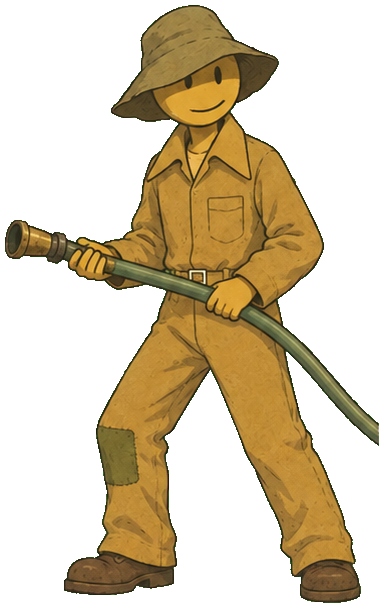
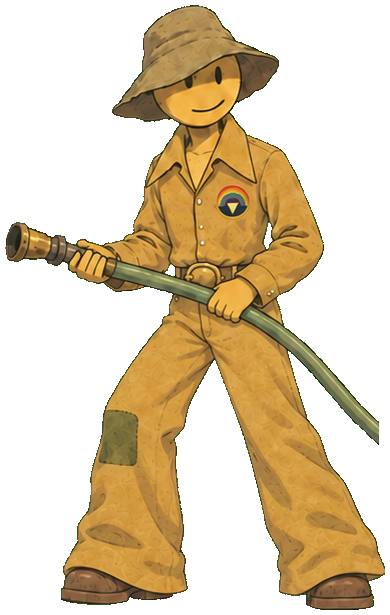
feat(art): painted gardener, and the final character sheets cut
The gardener follows PR's pattern: `man` stays the anchor, `manP` (the built
geometry) is hidden, a camera-facing quad carries the painted view. He is
simpler than Rosie because manRot only ever settles to 0 or PI — he faces left
or right, never toward camera — so the view is chosen by what he is DOING
rather than by angle: kneeling while cowering, walking above a speed threshold,
standing otherwise, mirrored when he turns.

Also re-cut against the user's final designs, which replaced every earlier
sheet: Rosie, the gardener, the grey hose and the dragon.

Evidence: production/qa/evidence/pr2-moving.png
Design: design/art/painted-rosie.md

Claude-Session: https://claude.ai/code/session_01JR8fsw3Uh5kViP8MJWMfnz

Changed region(s): [[0.0, 0.0, 1.0, 1.0]]

diff --git a/src/index.html b/src/index.html
@@ -2710,6 +2710,45 @@ function artSync(){skyDome.position.set(cam.position.x,0,cam.position.z);stars.p
 
 /* per-frame sync of the 3D scene with the game state */
 const C=h=>new THREE.Color(h),SKY={top:[C('#3f4a54'),C('#2c3a38')],mid:[C('#8b958f'),C('#6e7f72')],bot:[C('#cfc0a4'),C('#b9b893')]},FOG_A=C('#9ea396'),FOG_B=C('#8d978a'),FOG_P=C('#6a5f74'),SKY_BH=C('#b06a86'),HEMI_S=[C('#aab4b2'),C('#93a89c'),C('#a894b4')],HEMI_G=[C('#242a1e'),C('#20281f'),C('#2a3330')];
+/* ---- PAINTED GARDENER ---------------------------------------------------------------------
+   Same approach as PR (painted Rosie): `man` stays the anchor every system reads, `manP` (the
+   built geometry) is hidden, and a camera-facing quad shows the painted view. He is simpler
+   than Rosie because manRot only ever settles to 0 or PI -- he faces left or right, never
+   toward camera -- so the view is chosen by what he is DOING, not by angle. */
+const PM={on:true,ready:false,tex:{},h:188,lx:0,walk:0,bob:0};
+(function(){
+ const L=new THREE.TextureLoader(),V=['side','walk','kneel','back','q34'];let got=0;
+ V.forEach(v=>L.load('art/man_'+v+'.png',tx=>{
+   tx.encoding=THREE.sRGBEncoding;tx.minFilter=THREE.LinearFilter;tx.magFilter=THREE.LinearFilter;
+   tx.generateMipmaps=false;tx.anisotropy=4;PM.tex[v]=tx;if(++got===V.length)PM.ready=true;},
+   undefined,()=>{PM.on=false;}));
+ PM.mat=new THREE.MeshBasicMaterial({transparent:true,alphaTest:.34,depthWrite:true,toneMapped:false,side:THREE.DoubleSide});
+ PM.spr=new THREE.Mesh(new THREE.PlaneGeometry(1,1),PM.mat);PM.spr.visible=false;PM.spr.renderOrder=2;scene.add(PM.spr);
+ PM.sh=new THREE.Mesh(new THREE.CircleGeometry(1,20),new THREE.MeshBasicMaterial({color:0x2a2118,transparent:true,opacity:.24,depthWrite:false}));
+ PM.sh.rotation.x=-Math.PI/2;PM.sh.visible=false;PM.sh.renderOrder=1;scene.add(PM.sh);
+})();
+function pmUpdate(dt,t,cower){
+  if(!PM.on||!PM.ready)return false;
+  manP.visible=false;
+  const dx=man.position.x-PM.lx;PM.lx=man.position.x;
+  PM.walk=lerp(PM.walk,Math.min(1,Math.abs(dx)/(dt||1)/90),1-Math.exp(-dt*8));
+  const v=cower?'kneel':(PM.walk>.25?'walk':'side');
+  const tx=PM.tex[v]||PM.tex.side;
+  if(PM.mat.map!==tx){PM.mat.map=tx;PM.mat.needsUpdate=true;}
+  PM.bob=lerp(PM.bob,PM.walk*5,1-Math.exp(-dt*12));
+  const camY=Math.atan2(cam.position.x-man.position.x,cam.position.z-man.position.z);
+  const asp=(tx&&tx.image)?tx.image.width/tx.image.height:.6;
+  const h=PM.h*(cower?.72:1),w=h*asp;
+  /* the art faces RIGHT, so mirror whenever he has turned to face the other way */
+  const flip=Math.cos(manRot)<0;
+  PM.spr.scale.set(flip?-w:w,h,1);
+  PM.spr.position.set(man.position.x,h*.5+PM.bob,man.position.z);
+  PM.spr.rotation.set(0,camY,0);
+  PM.spr.visible=man.visible;
+  PM.sh.position.set(man.position.x,1.2,man.position.z);
+  PM.sh.scale.setScalar(w*.3);PM.sh.visible=man.visible;
+  return true;
+}
 let camTX=300,camTZ=300,dogRot=0,manRot=Math.PI,sfS=0,rollS=0;const lerpAng=(a,b,k)=>a+Math.atan2(Math.sin(b-a),Math.cos(b-a))*k;
 /* ===== stepped-animation: ONE quantised clock for the CHARACTERS =====
    The note this exists to answer: everything moved on smooth, constant-velocity 60 fps
@@ -2915,7 +2954,7 @@ function render3D(dt){
   furM.color.copy(FURC).lerp(FWET,Math.min(1,R.wet)*.8);furS.color.copy(FURS).lerp(FWET,Math.min(1,R.wet)*.8);faceM.color.copy(furM.color);for(let q=0;q<COATM.length;q++)COATM[q].color.copy(furM.color); /* the face map multiplies the coat colour, so wFur() and the wet tint reach the drawn face too */dAura.material.opacity=(booga?1:power/POWER_MAX)*.13*(.75+.25*Math.sin(t*8));dAura.material.color.set(Math.sin(t*5)>0||!booga?'#c77dff':'#39d98a');
   /* the waterer */
   const cower=Hm.cower,up=Hm.shock>0||!Hm.grabbed,sw=Hm.moving?Math.sin(Hm.walkT*9):0,cw=Hm.moving?Math.cos(Hm.walkT*9):0;
-  man.position.set(Hm.x+(cower&&!reduce?Math.sin(t*40)*1.6:0),0,zOf(Hm.y));manRot=lerpAng(manRot,Hm.f>0?0:Math.PI,Math.min(1,dt*12));man.rotation.y=manRot;
+  man.position.set(Hm.x+(cower&&!reduce?Math.sin(t*40)*1.6:0),0,zOf(Hm.y));manRot=lerpAng(manRot,Hm.f>0?0:Math.PI,Math.min(1,dt*12));man.rotation.y=manRot;pmUpdate(dt,t,cower);
   manP.position.y=Math.abs(cw)*2.5;A.mY=ovr(A.mY,cower?.62:1,A.mYs,dt,15,.38);ssY(manP,clamp(A.mY,.45,1.15));manP.rotation.z=ovr(manP.rotation.z,cower?-.4:0,A.mRot,dt,14,.40);
   mLegs.forEach((l,i)=>{const s=i?-1:1;l.hip.rotation.z=cower?1.1:s*sw*.55;l.knee.rotation.z=cower?-1.9:-Math.max(0,s*cw)*.8;});
   mArms[0].rotation.z=ovr(mArms[0].rotation.z,cower?2.7:up?2.95:1.5,A.mArm[0],dt,16,.38);mArms[1].rotation.z=ovr(mArms[1].rotation.z,cower?2.7:up?2.95:-sw*.5,A.mArm[1],dt,16,.38);
